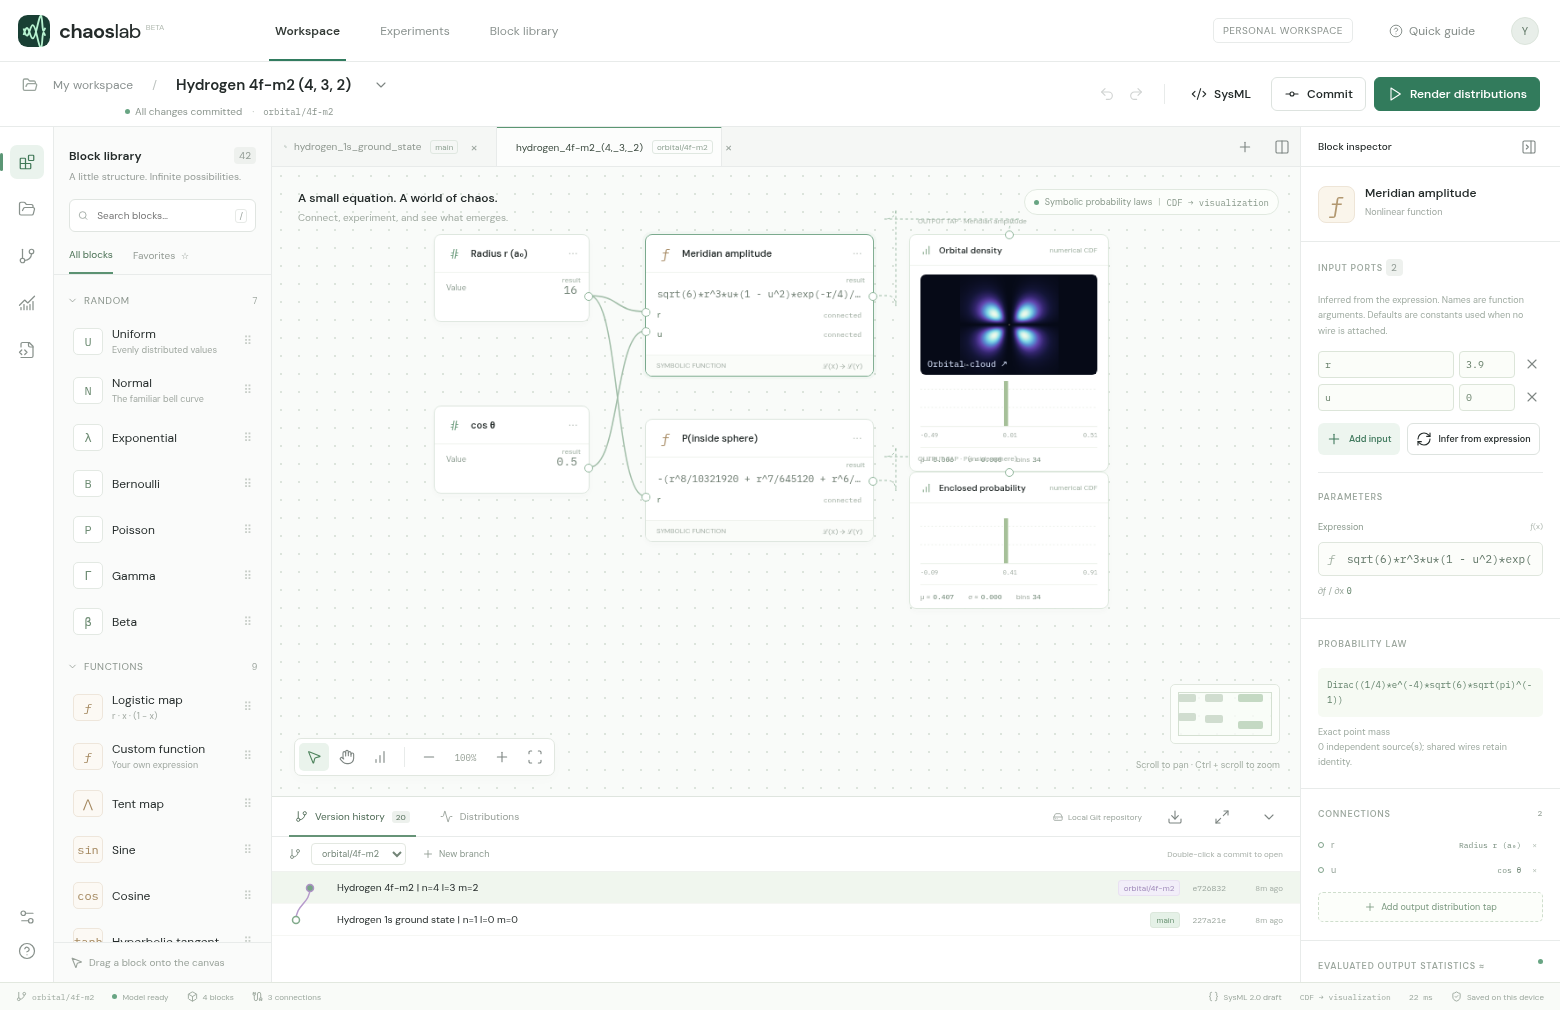
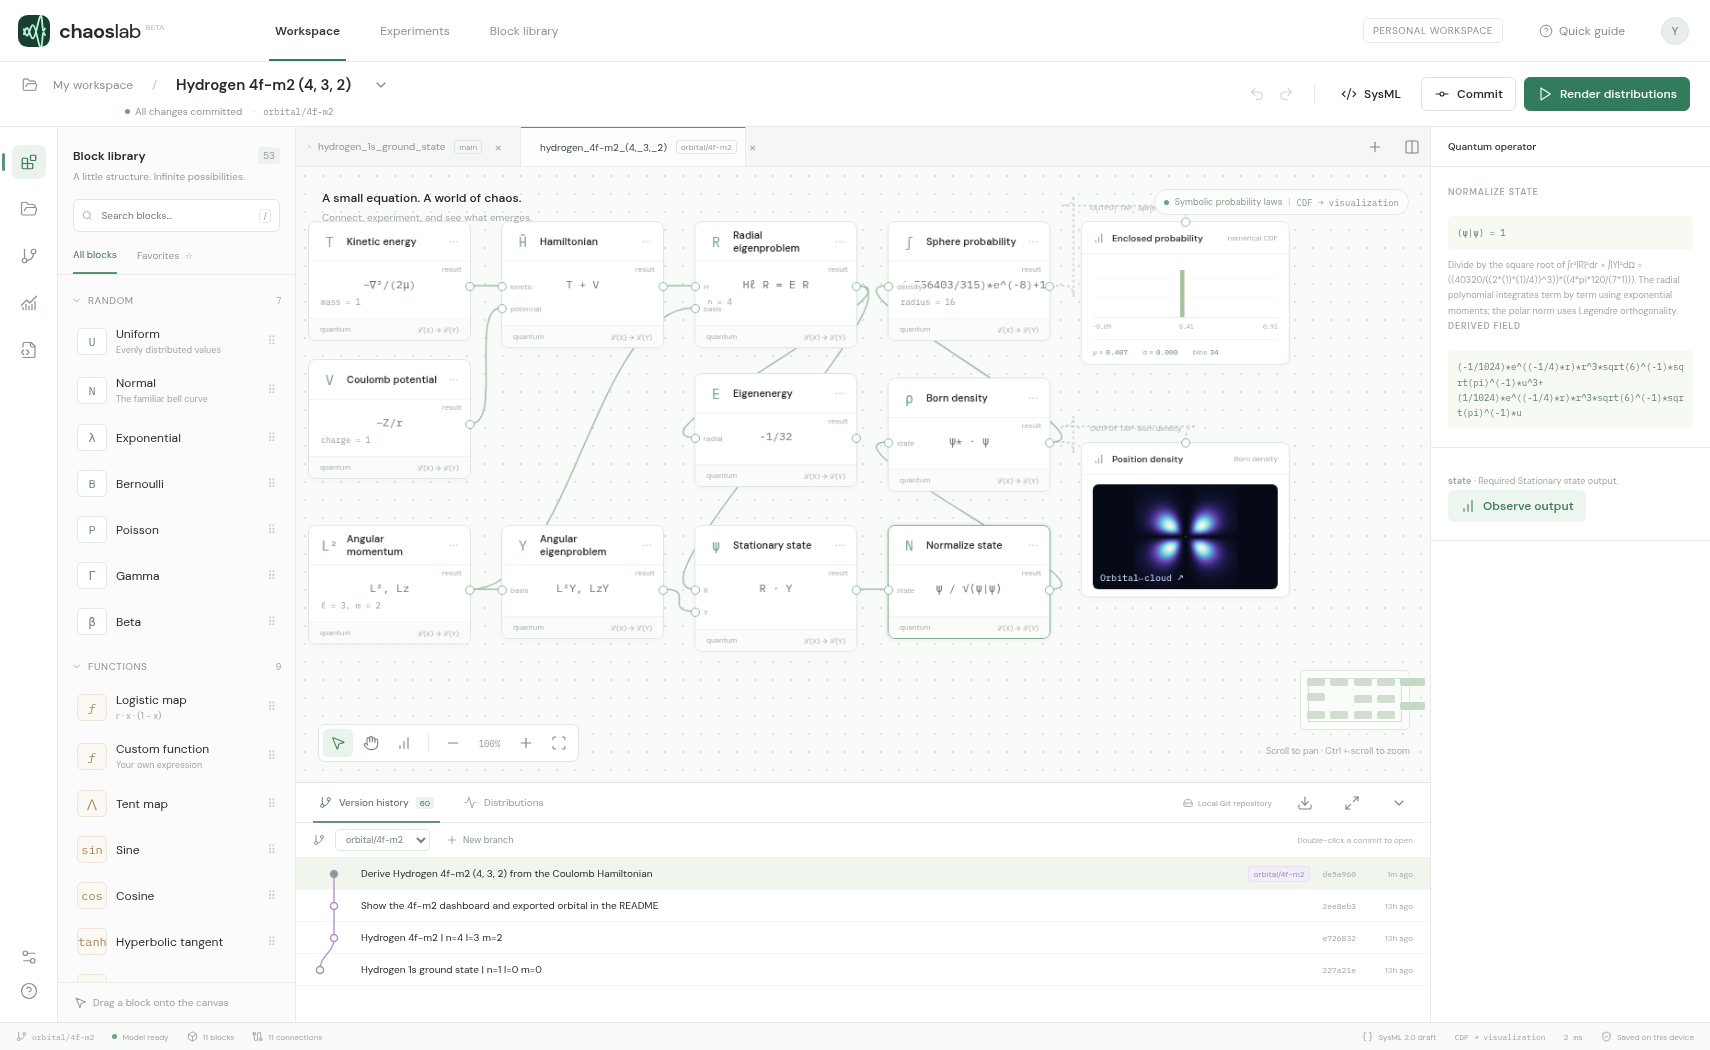
Show the derived state and operator graph for orbital/4f-m2

diff --git a/README.md b/README.md
@@ -4,6 +4,8 @@ Open **Version history** in Chaos Lab to explore the 20 hydrogen designs in this
 
 ## Hydrogen 4f (n = 4, ℓ = 3, m = 2)
 
+The connected Hamiltonian and eigenstate solvers give $E=-1/32$ Hartree for this state.
+
 ![Chaos Lab dashboard with the 4f model, m = 2, open in version history](dashboard.png)
 
 Radial nodes: 0. Polar nodes: 1. Plot half-width: 32 Bohr radii.
@@ -22,7 +24,7 @@ cd hydrogen_wavefunction
 python studio.py
 ```
 
-On Windows you can use `py studio.py`. On Linux you can use `python3 studio.py`. The first launch downloads the pinned Chaos Lab browser build. Double-click a commit to open it in a tab. Open another and use **Split view** to compare them. **Orbital cloud ↗** opens the spatial plots. The launcher reads the Git objects from your clone, including origin branches. Run `git fetch origin` and restart the launcher to load new remote branches.
+On Windows you can use `py studio.py`. On Linux you can use `python3 studio.py`. The first launch downloads the pinned Chaos Lab browser build. Double-click a commit to open it in a tab. Open another and use **Split view** to compare them. **Orbital cloud ↗** opens the spatial plots. The launcher reads the Git objects from your clone, including origin branches. For an existing clone, update the checked-out branch with `git pull --ff-only`, fetch the other branches with `git fetch origin`, and restart the launcher. Double-click the latest commit for the design you want to explore.
 
 To compare states with the same radial law, open `orbital/2p-m0` and `orbital/2p-m1`. At the same radius their enclosed-probability probes agree. The first slice is dark on the equatorial plane, while the second is dark along the polar axis.
 
@@ -32,7 +34,17 @@ To compare states with the same radial law, open `orbital/2p-m0` and `orbital/2p
 
 Branch names encode `(n, ℓ, m)`. For example, `orbital/3d-m1` is `(3,2,1)`. Each snapshot includes the editable graph, its compiled symbolic representation, and its SysML text. Each excited-state branch also contains a reference cross-section.
 
-Coordinates are in Bohr radii. These are normalized fixed-proton, nonrelativistic spatial eigenstates in the complex spherical-harmonic basis. For a fixed m the azimuthal phase is exp(i m φ), so probability density is axially symmetric. The graph evaluates the real meridian amplitude at φ = 0 using radius r and u = cos θ. Its square is probability per unit volume. The sphere probe integrates the radial Born law. The field tap sweeps the same amplitude expression for the x–z slice and its projected detections. Detections are drawn for display from a numerical grid of the final density including the r² volume factor. Brightness and plotting windows are scaled per orbital.
+## How the graph derives this orbital
+
+1. **Kinetic energy** and **Coulomb potential** supply the relative-coordinate operators in atomic units. Their wires feed **Hamiltonian**, which constructs $H=-\nabla^2/(2\mu)-Z/r$. The default is a fixed proton, $Z=\mu=1$.
+2. **Angular momentum** selects the joint eigenvalues of $L^2$ and $L_z$. **Radial eigenproblem** uses that angular eigenvalue in the centrifugal term. Regularity at the origin, decay at infinity, and radial-series termination give the polynomial and energy. **Angular eigenproblem** constructs the polar polynomial by Rodrigues differentiation and includes the phase $e^{im\phi}$.
+3. **Stationary state** multiplies the separated basis functions. **Normalize state** computes their norm with the spherical volume measure. **Born density** takes the squared modulus of the normalized state. **Sphere probability** integrates that density to the probe radius.
+4. Select a block to inspect its equation and derivation. Change **Nuclear charge** from 1 to 2. The energy becomes four times more negative and the orbital contracts by a factor of two. The plot rescales with the orbital, so use its Bohr-radius scale bar to see the change.
+
+The central slice evaluates the final density in the x–z plane. Projected detections sample the final density on a finite radial and angular grid with the spherical volume factor. Coordinates use Bohr radii and energy uses Hartree.
+
+The branch stores the operator graph in `model.json`, its derived fields and scalar laws in `model.symbolic.json`, and the block connections in `model.sysml`. With SymPy installed, run `python tools/verify_state.py` in a checkout of this branch to check the eigenvalue equations, normalization, radial reference solution and sphere integral.
+
 
 | n | ℓ | m | Design branch |
 |---|---|---|---|
